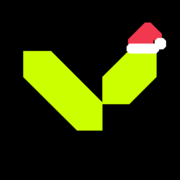
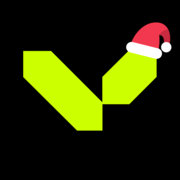
feat(brand): Seat the Christmas hat at a tilt on the right arm

Changed region(s): [[0.6944, 0.1111, 0.9722, 0.3333]]

diff --git a/mockups/volia-christmas/render.py b/mockups/volia-christmas/render.py
@@ -14,10 +14,11 @@ MARK = '''<g id="volia-mark" fill="#CCFF00">
 </g>'''
 BRIM = '720,264 736,248 888,248 904,264 904,288 888,304 736,304 720,288'
 OPTIONS = {
-    'A-classic': ('Classic fold', '''<g id="santa-hat">
-  <polygon fill="#F2384E" points="728,272 728,224 824,128 856,128 920,192 920,240 888,240 872,224 872,272"/>
-  <polygon fill="#FFFFFF" points="''' + BRIM + '''"/>
-  <polygon fill="#FFFFFF" points="896,216 928,216 944,232 944,264 928,280 896,280 880,264 880,232"/>
+    # Chosen direction: a soft hat tilted along the arm, fur brim pulled over the arm's top.
+    'A-classic': ('Classic, worn at a tilt', '''<g id="santa-hat">
+<path fill="#F2384E" d="M738.2,268.0 C756.8,193.3 818.6,123.2 893.8,127.5 C948.6,130.8 975.8,178.8 964.7,248.2 L932.2,246.3 C935.1,218.2 927.3,199.7 905.0,198.3 C908.9,232.2 905.1,272.5 896.3,307.4 Z"/><path fill="#C92A3F" d="M905.0,198.3 C927.3,199.7 935.1,218.2 932.2,246.3 L964.7,248.2 C969.5,216.4 966.1,188.8 954.0,167.2 C935.1,168.7 918.1,178.9 905.0,198.3 Z"/>
+<polygon fill="#FFFFFF" points="754.7,239.1 748.0,238.3 741.3,238.9 734.9,241.0 729.2,244.4 724.3,249.1 720.6,254.7 718.3,261.0 717.4,267.6 718.0,274.3 720.1,280.7 723.6,286.5 728.2,291.3 733.9,295.0 740.2,297.4 883.8,333.2 890.4,334.0 897.1,333.4 903.5,331.3 909.2,327.9 914.1,323.2 917.8,317.6 920.1,311.3 921.0,304.6 920.4,298.0 918.3,291.6 914.8,285.8 910.2,281.0 904.6,277.3 898.3,274.9"/>
+<circle fill="#FFFFFF" cx="945.3" cy="268.1" r="29.0"/>
 </g>'''),
     'B-brand': ('Polar pennant', '''<g id="santa-hat">
   <polygon fill="#FFFFFF" points="744,272 744,224 680,160 680,128 744,128 888,272"/>

diff --git a/mockups/volia-christmas/README.md b/mockups/volia-christmas/README.md
@@ -2,7 +2,7 @@
 
 The original VOLIA polygons remain at their supplied coordinates in every SVG. Each hat sits on the right arm's y=285 top edge; its brim overlaps the arm by 19 logo units. All artwork uses solid fills, straight edges and 45 degree cuts, with no outlines, shadows or gradients. B also tests a circular pompom.
 
-- A: Classic fold uses a red cap, white cut-corner brim and square pompom for the clearest Santa association at small sizes.
+- A (chosen): a soft red hat tilted along the right arm, with a rounded fur brim pulled over the arm's top and a round pompom. Curved on purpose: the straight-edged version looked placed on the mark, not worn.
 - B: Polar pennant folds toward the open centre of the mark, using a white cap with lime brim and a round lime pompom.
 - C: Signal cap uses an upright lime crown, red brim and white cut-corner pompom for a compact, more abstract seasonal accent.
 
